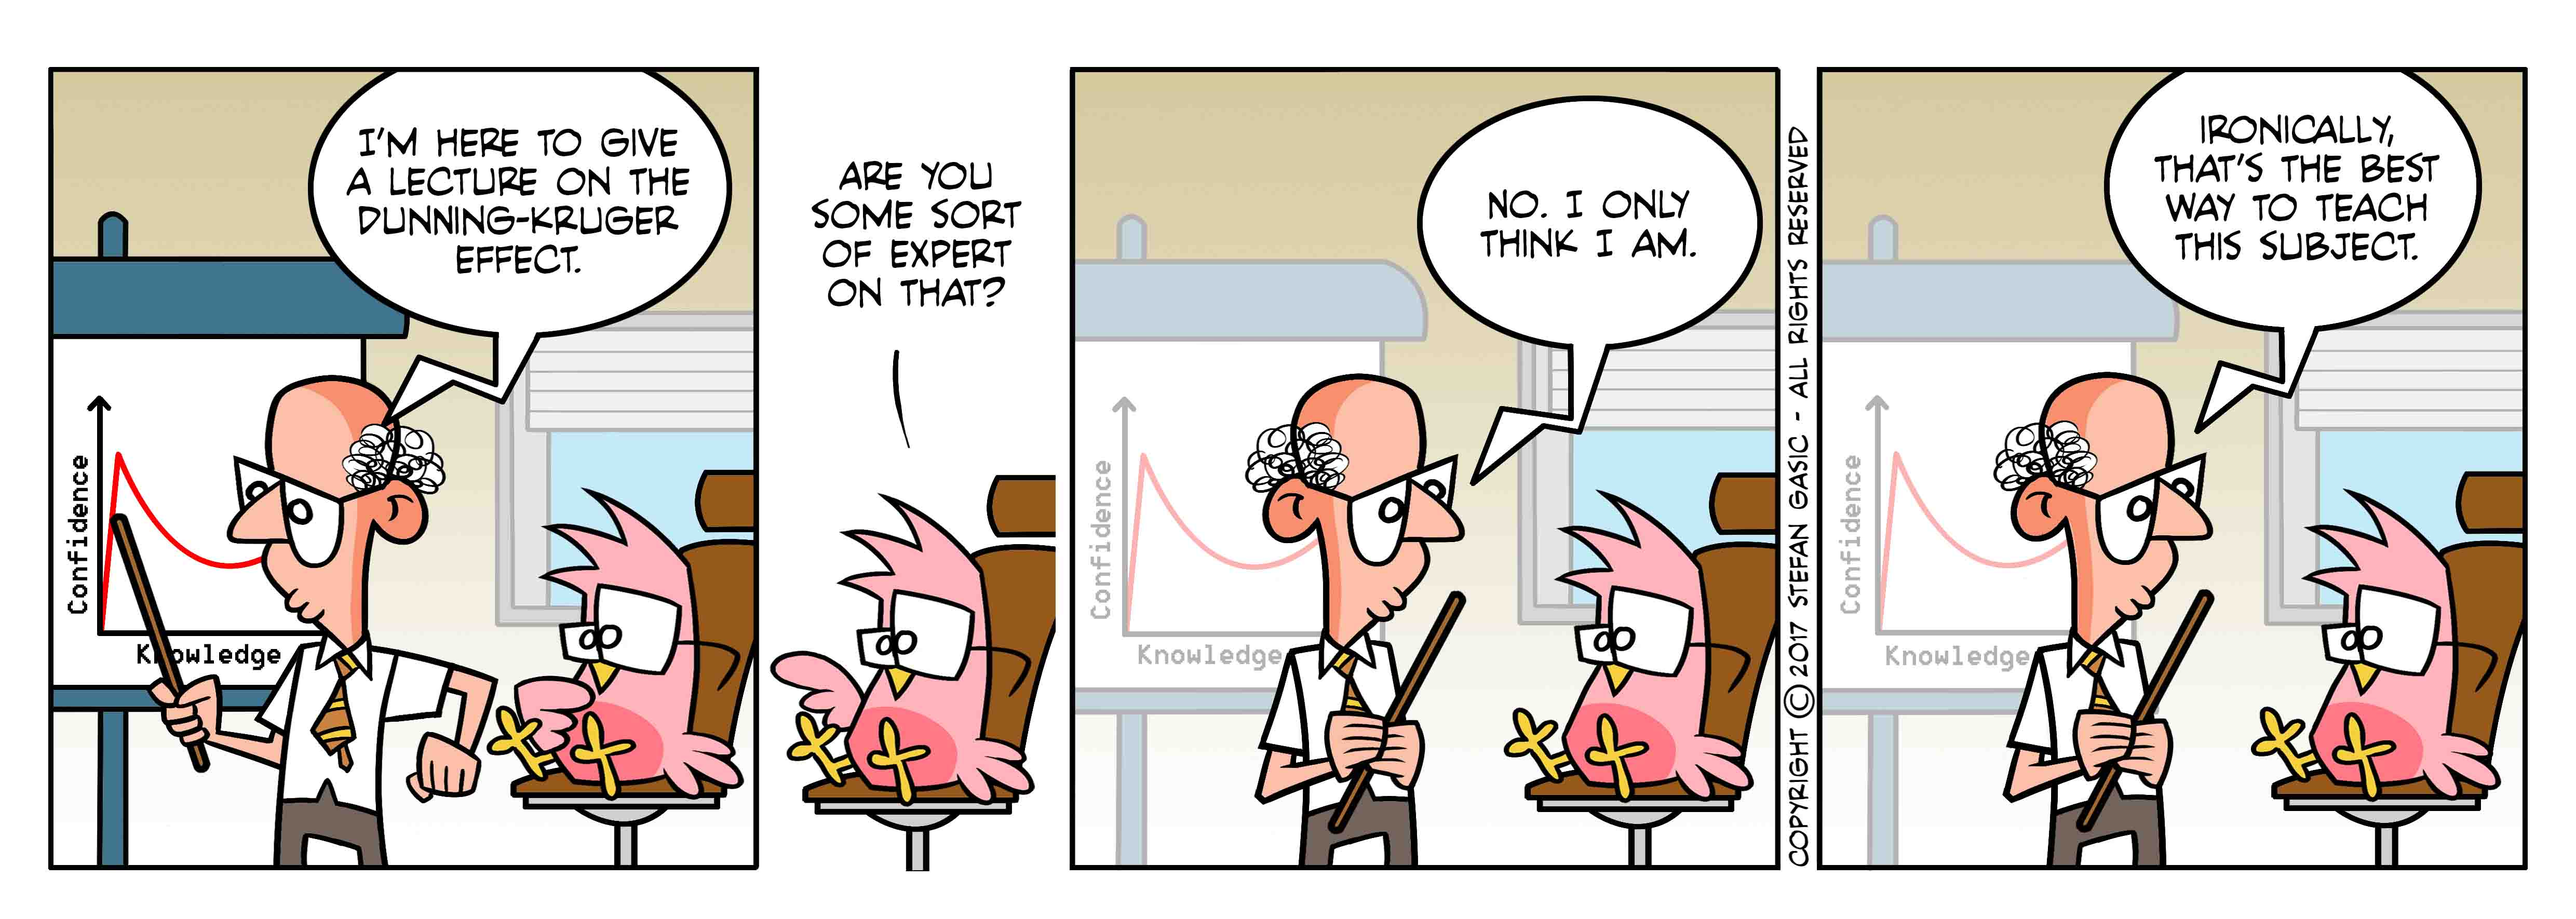
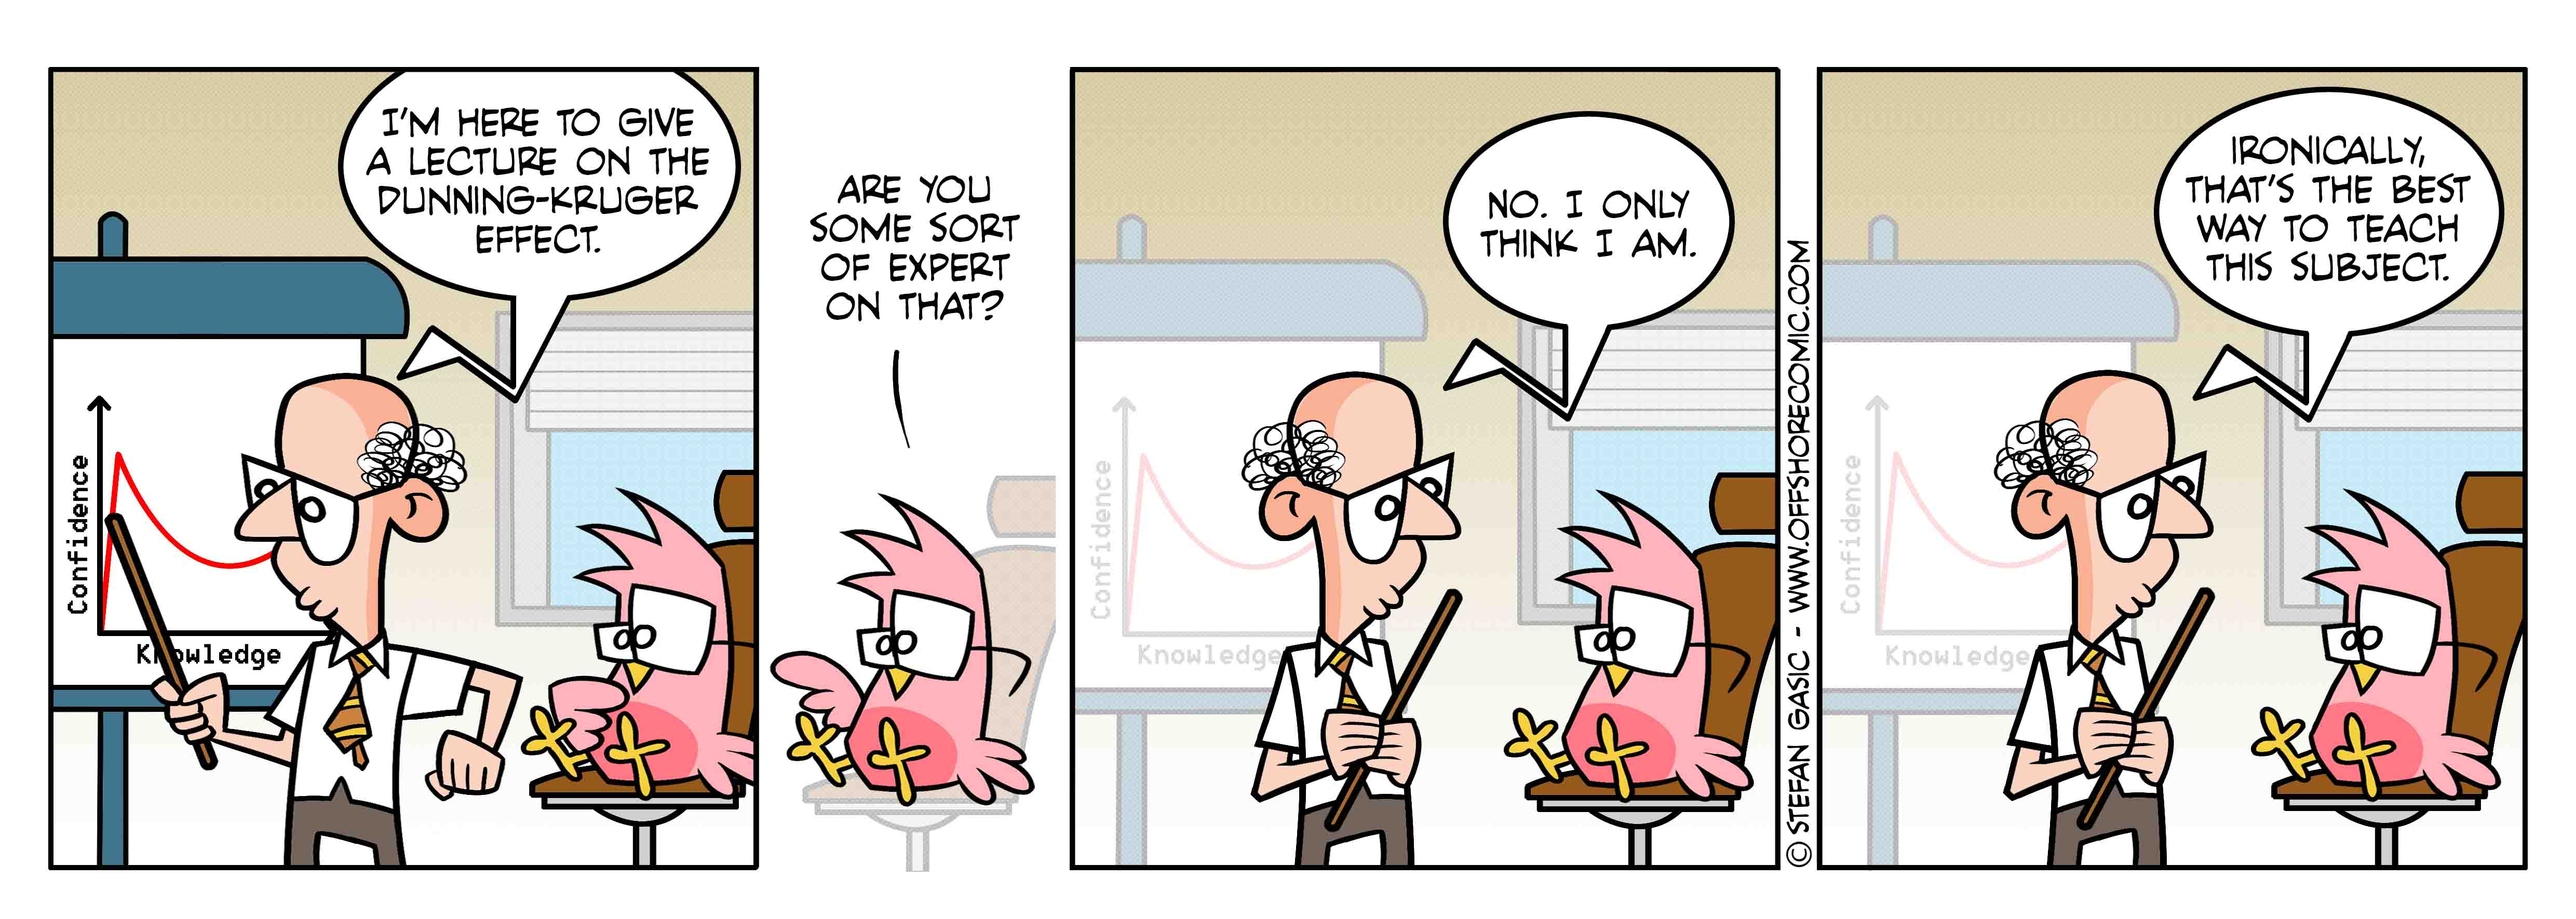
Added a new strip and updated the html and js codes accordingly.

Changed region(s): [[0.3749, 0.0621, 0.9998, 0.9322], [0.0312, 0.0621, 0.4062, 0.9633], [0.8123, 0.9011, 0.8436, 0.9322]]

diff --git a/myscripts.js b/myscripts.js
@@ -1,4 +1,4 @@
-var Strips = ["images/S326.jpg","images/S325.jpg","images/S324.jpg","images/S323.jpg","images/S322.jpg","images/S321.jpg","images/S320.jpg","images/S319.jpg","images/S318.jpg","images/S317.jpg","images/S316.jpg","images/S315.jpg","images/S314.jpg","images/S313.jpg","images/S312.jpg","images/S311.jpg","images/S310.jpg","images/S309.jpg","images/S308.jpg","images/S307.jpg","images/S306.jpg","images/S305.jpg","images/S304.jpg","images/S303.jpg","images/S302.jpg","images/S301.jpg","images/S300.jpg","images/S299.jpg","images/S298.jpg","images/S297.jpg","images/S296.jpg","images/S295.jpg","images/S294.jpg","images/S293.jpg","images/S292.jpg","images/S291.jpg","images/S290.jpg","images/S289.jpg","images/S288.jpg","images/S287.jpg","images/S286.jpg","images/S285.jpg","images/S284.jpg","images/S283.jpg","images/S282.jpg","images/S281.jpg","images/S280.jpg","images/S279.jpg","images/S278.jpg","images/S277.jpg","images/S276.jpg","images/S275.jpg","images/S274.jpg","images/S273.jpg","images/S272.jpg","images/S271.jpg","images/S270.jpg","images/S269.jpg","images/S268.jpg","images/S267.jpg","images/S266.jpg","images/S265.jpg","images/S264.jpg","images/S263.jpg","images/S262.jpg","images/S261.jpg","images/S260.jpg","images/S259.jpg","images/S258.jpg","images/S257.jpg","images/S256.jpg","images/S255.jpg","images/S254.jpg","images/S253.jpg","images/S252.jpg","images/S251.jpg","images/S250.jpg","images/S249.jpg","images/S248.jpg","images/S247.jpg","images/S246.jpg","images/S245.jpg","images/S244.jpg","images/S243.jpg","images/S242.jpg","images/S241.jpg","images/S240.jpg","images/S239.jpg","images/S238.jpg","images/S237.jpg","images/S236.jpg","images/S235.jpg","images/S234.jpg","images/S233.jpg","images/S232.jpg","images/S231.jpg","images/S230.jpg","images/S229.jpg","images/S228.jpg","images/S227.jpg","images/S226.jpg","images/S225.jpg","images/S224.jpg","images/S223.jpg","images/S222.jpg","images/S221.jpg","images/S220.jpg","images/S219.jpg","images/S218.jpg","images/S217.jpg","images/S216.jpg","images/S215.jpg","images/S214.jpg","images/S213.jpg","images/S212.jpg","images/S211.jpg","images/S210.jpg","images/S209.jpg","images/S208.jpg","images/S207.jpg","images/S206.jpg","images/S205.jpg","images/S204.jpg","images/S203.jpg","images/S202.jpg","images/S201.jpg","images/S200.jpg","images/S199.jpg","images/S198.jpg","images/S197.jpg","images/S196.jpg","images/S195.jpg","images/S194.jpg","images/S193.jpg","images/S192.jpg","images/S191.jpg","images/S190.jpg","images/S189.jpg","images/S188.jpg","images/S187.jpg","images/S186.jpg","images/S185.jpg","images/S184.jpg","images/S183.jpg","images/S182.jpg","images/S181.jpg","images/S180.jpg","images/S179.jpg","images/S178.jpg","images/S177.jpg","images/S176.jpg","images/S175.jpg","images/S174.jpg","images/S173.jpg","images/S172.jpg","images/S171.jpg","images/S170.jpg","images/S169.jpg","images/S168.jpg","images/S167.jpg","images/S166.jpg","images/S165.jpg","images/S164.jpg","images/S163.jpg","images/S162.jpg","images/S161.jpg","images/S160.jpg","images/S159.jpg","images/S158.jpg","images/S157.jpg","images/S156.jpg","images/S155.jpg","images/S154.jpg","images/S153.jpg","images/S152.jpg","images/S151.jpg","images/S150.jpg","images/S149.jpg","images/S148.jpg","images/S147.jpg","images/S146.jpg","images/S145.jpg","images/S144.jpg","images/S143.jpg","images/S142.jpg","images/S141.jpg","images/S140.jpg","images/S139.jpg","images/S138.jpg","images/S137.jpg","images/S136.jpg","images/S135.jpg","images/S134.jpg","images/S133.jpg","images/S132.jpg","images/S131.jpg","images/S130.jpg","images/S129.jpg","images/S128.jpg","images/S127.jpg","images/S126.jpg","images/S125.jpg","images/S124.jpg","images/S123.jpg","images/S122.jpg","images/S121.jpg","images/S120.jpg","images/S119.jpg","images/S118.jpg","images/S117.jpg","images/S116.jpg","images/S115.jpg","images/S114.jpg","images/S113.jpg","images/S112.jpg","images/S111.jpg","images/S110.jpg","images/S109.jpg","images/S108.jpg","images/S107.jpg","images/S106.jpg","images/S105.jpg","images/S104.jpg","images/S103.jpg","images/S102.jpg","images/S101.jpg","images/S100.jpg","images/S99.jpg","images/S98.jpg","images/S97.jpg","images/S96.jpg","images/S95.jpg","images/S94.jpg","images/S93.jpg","images/S92.jpg","images/S91.jpg","images/S90.jpg","images/S89.jpg","images/S88.jpg","images/S87.jpg","images/S86.jpg","images/S85.jpg","images/S84.jpg","images/S83.jpg","images/S82.jpg","images/S81.jpg","images/S80.jpg","images/S79.jpg","images/S78.jpg","images/S77.jpg","images/S76.jpg","images/S75.jpg","images/S74.jpg","images/S73.jpg","images/S72.jpg","images/S71.jpg","images/S70.jpg","images/S69.jpg","images/S68.jpg","images/S67.jpg","images/S66.jpg","images/S65.jpg","images/S64.jpg","images/S63.jpg","images/S62.jpg","images/S61.jpg","images/S60.jpg","images/S59.jpg","images/S58.jpg","images/S57.jpg","images/S56.jpg","images/S55.jpg","images/S54.jpg","images/S53.jpg","images/S52.jpg","images/S51.jpg","images/S50.jpg","images/S49.jpg","images/S48.jpg","images/S47.jpg","images/S46.jpg","images/S45.jpg","images/S44.jpg","images/S43.jpg","images/S42.jpg","images/S41.jpg","images/S40.jpg","images/S39.jpg","images/S38.jpg","images/S37.jpg","images/S36.jpg","images/S35.jpg","images/S34.jpg","images/S33.jpg","images/S32.jpg","images/S31.jpg","images/S30.jpg","images/S29.jpg","images/S28.jpg","images/S27.jpg","images/S26.jpg","images/S25.jpg","images/S24.jpg","images/S23.jpg","images/S22.jpg","images/S21.jpg","images/S20.jpg","images/S19.jpg","images/S18.jpg","images/S17.jpg","images/S16.jpg","images/S15.jpg","images/S14.jpg","images/S13.jpg","images/S12.jpg","images/S11.jpg","images/S10.jpg","images/S9.jpg","images/S8.jpg","images/S7.jpg","images/S6.jpg","images/S5.jpg","images/S4.jpg","images/S3.jpg","images/S2.jpg","images/S1.jpg"];
+var Strips = ["images/S327.jpg","images/S326.jpg","images/S325.jpg","images/S324.jpg","images/S323.jpg","images/S322.jpg","images/S321.jpg","images/S320.jpg","images/S319.jpg","images/S318.jpg","images/S317.jpg","images/S316.jpg","images/S315.jpg","images/S314.jpg","images/S313.jpg","images/S312.jpg","images/S311.jpg","images/S310.jpg","images/S309.jpg","images/S308.jpg","images/S307.jpg","images/S306.jpg","images/S305.jpg","images/S304.jpg","images/S303.jpg","images/S302.jpg","images/S301.jpg","images/S300.jpg","images/S299.jpg","images/S298.jpg","images/S297.jpg","images/S296.jpg","images/S295.jpg","images/S294.jpg","images/S293.jpg","images/S292.jpg","images/S291.jpg","images/S290.jpg","images/S289.jpg","images/S288.jpg","images/S287.jpg","images/S286.jpg","images/S285.jpg","images/S284.jpg","images/S283.jpg","images/S282.jpg","images/S281.jpg","images/S280.jpg","images/S279.jpg","images/S278.jpg","images/S277.jpg","images/S276.jpg","images/S275.jpg","images/S274.jpg","images/S273.jpg","images/S272.jpg","images/S271.jpg","images/S270.jpg","images/S269.jpg","images/S268.jpg","images/S267.jpg","images/S266.jpg","images/S265.jpg","images/S264.jpg","images/S263.jpg","images/S262.jpg","images/S261.jpg","images/S260.jpg","images/S259.jpg","images/S258.jpg","images/S257.jpg","images/S256.jpg","images/S255.jpg","images/S254.jpg","images/S253.jpg","images/S252.jpg","images/S251.jpg","images/S250.jpg","images/S249.jpg","images/S248.jpg","images/S247.jpg","images/S246.jpg","images/S245.jpg","images/S244.jpg","images/S243.jpg","images/S242.jpg","images/S241.jpg","images/S240.jpg","images/S239.jpg","images/S238.jpg","images/S237.jpg","images/S236.jpg","images/S235.jpg","images/S234.jpg","images/S233.jpg","images/S232.jpg","images/S231.jpg","images/S230.jpg","images/S229.jpg","images/S228.jpg","images/S227.jpg","images/S226.jpg","images/S225.jpg","images/S224.jpg","images/S223.jpg","images/S222.jpg","images/S221.jpg","images/S220.jpg","images/S219.jpg","images/S218.jpg","images/S217.jpg","images/S216.jpg","images/S215.jpg","images/S214.jpg","images/S213.jpg","images/S212.jpg","images/S211.jpg","images/S210.jpg","images/S209.jpg","images/S208.jpg","images/S207.jpg","images/S206.jpg","images/S205.jpg","images/S204.jpg","images/S203.jpg","images/S202.jpg","images/S201.jpg","images/S200.jpg","images/S199.jpg","images/S198.jpg","images/S197.jpg","images/S196.jpg","images/S195.jpg","images/S194.jpg","images/S193.jpg","images/S192.jpg","images/S191.jpg","images/S190.jpg","images/S189.jpg","images/S188.jpg","images/S187.jpg","images/S186.jpg","images/S185.jpg","images/S184.jpg","images/S183.jpg","images/S182.jpg","images/S181.jpg","images/S180.jpg","images/S179.jpg","images/S178.jpg","images/S177.jpg","images/S176.jpg","images/S175.jpg","images/S174.jpg","images/S173.jpg","images/S172.jpg","images/S171.jpg","images/S170.jpg","images/S169.jpg","images/S168.jpg","images/S167.jpg","images/S166.jpg","images/S165.jpg","images/S164.jpg","images/S163.jpg","images/S162.jpg","images/S161.jpg","images/S160.jpg","images/S159.jpg","images/S158.jpg","images/S157.jpg","images/S156.jpg","images/S155.jpg","images/S154.jpg","images/S153.jpg","images/S152.jpg","images/S151.jpg","images/S150.jpg","images/S149.jpg","images/S148.jpg","images/S147.jpg","images/S146.jpg","images/S145.jpg","images/S144.jpg","images/S143.jpg","images/S142.jpg","images/S141.jpg","images/S140.jpg","images/S139.jpg","images/S138.jpg","images/S137.jpg","images/S136.jpg","images/S135.jpg","images/S134.jpg","images/S133.jpg","images/S132.jpg","images/S131.jpg","images/S130.jpg","images/S129.jpg","images/S128.jpg","images/S127.jpg","images/S126.jpg","images/S125.jpg","images/S124.jpg","images/S123.jpg","images/S122.jpg","images/S121.jpg","images/S120.jpg","images/S119.jpg","images/S118.jpg","images/S117.jpg","images/S116.jpg","images/S115.jpg","images/S114.jpg","images/S113.jpg","images/S112.jpg","images/S111.jpg","images/S110.jpg","images/S109.jpg","images/S108.jpg","images/S107.jpg","images/S106.jpg","images/S105.jpg","images/S104.jpg","images/S103.jpg","images/S102.jpg","images/S101.jpg","images/S100.jpg","images/S99.jpg","images/S98.jpg","images/S97.jpg","images/S96.jpg","images/S95.jpg","images/S94.jpg","images/S93.jpg","images/S92.jpg","images/S91.jpg","images/S90.jpg","images/S89.jpg","images/S88.jpg","images/S87.jpg","images/S86.jpg","images/S85.jpg","images/S84.jpg","images/S83.jpg","images/S82.jpg","images/S81.jpg","images/S80.jpg","images/S79.jpg","images/S78.jpg","images/S77.jpg","images/S76.jpg","images/S75.jpg","images/S74.jpg","images/S73.jpg","images/S72.jpg","images/S71.jpg","images/S70.jpg","images/S69.jpg","images/S68.jpg","images/S67.jpg","images/S66.jpg","images/S65.jpg","images/S64.jpg","images/S63.jpg","images/S62.jpg","images/S61.jpg","images/S60.jpg","images/S59.jpg","images/S58.jpg","images/S57.jpg","images/S56.jpg","images/S55.jpg","images/S54.jpg","images/S53.jpg","images/S52.jpg","images/S51.jpg","images/S50.jpg","images/S49.jpg","images/S48.jpg","images/S47.jpg","images/S46.jpg","images/S45.jpg","images/S44.jpg","images/S43.jpg","images/S42.jpg","images/S41.jpg","images/S40.jpg","images/S39.jpg","images/S38.jpg","images/S37.jpg","images/S36.jpg","images/S35.jpg","images/S34.jpg","images/S33.jpg","images/S32.jpg","images/S31.jpg","images/S30.jpg","images/S29.jpg","images/S28.jpg","images/S27.jpg","images/S26.jpg","images/S25.jpg","images/S24.jpg","images/S23.jpg","images/S22.jpg","images/S21.jpg","images/S20.jpg","images/S19.jpg","images/S18.jpg","images/S17.jpg","images/S16.jpg","images/S15.jpg","images/S14.jpg","images/S13.jpg","images/S12.jpg","images/S11.jpg","images/S10.jpg","images/S9.jpg","images/S8.jpg","images/S7.jpg","images/S6.jpg","images/S5.jpg","images/S4.jpg","images/S3.jpg","images/S2.jpg","images/S1.jpg"];
 
 var Current = 0;
 var myStrip = null;

diff --git a/index.html b/index.html
@@ -41,7 +41,7 @@
         <div class="count">
           <strong><span id="currentCount"></span></strong> out of <strong><span id="totalCount"></span></strong>
         </div>
-		<div class="wrap-item1"><img src="images/S326.jpg" id="Strip"/></div>
+		<div class="wrap-item1"><img src="images/S327.jpg" id="Strip"/></div>
 		<div class="wrapper3">
 			<div class="wrap-item3">
 			<button class="button" onClick="Last();">&lsaquo;&lsaquo;</button>
